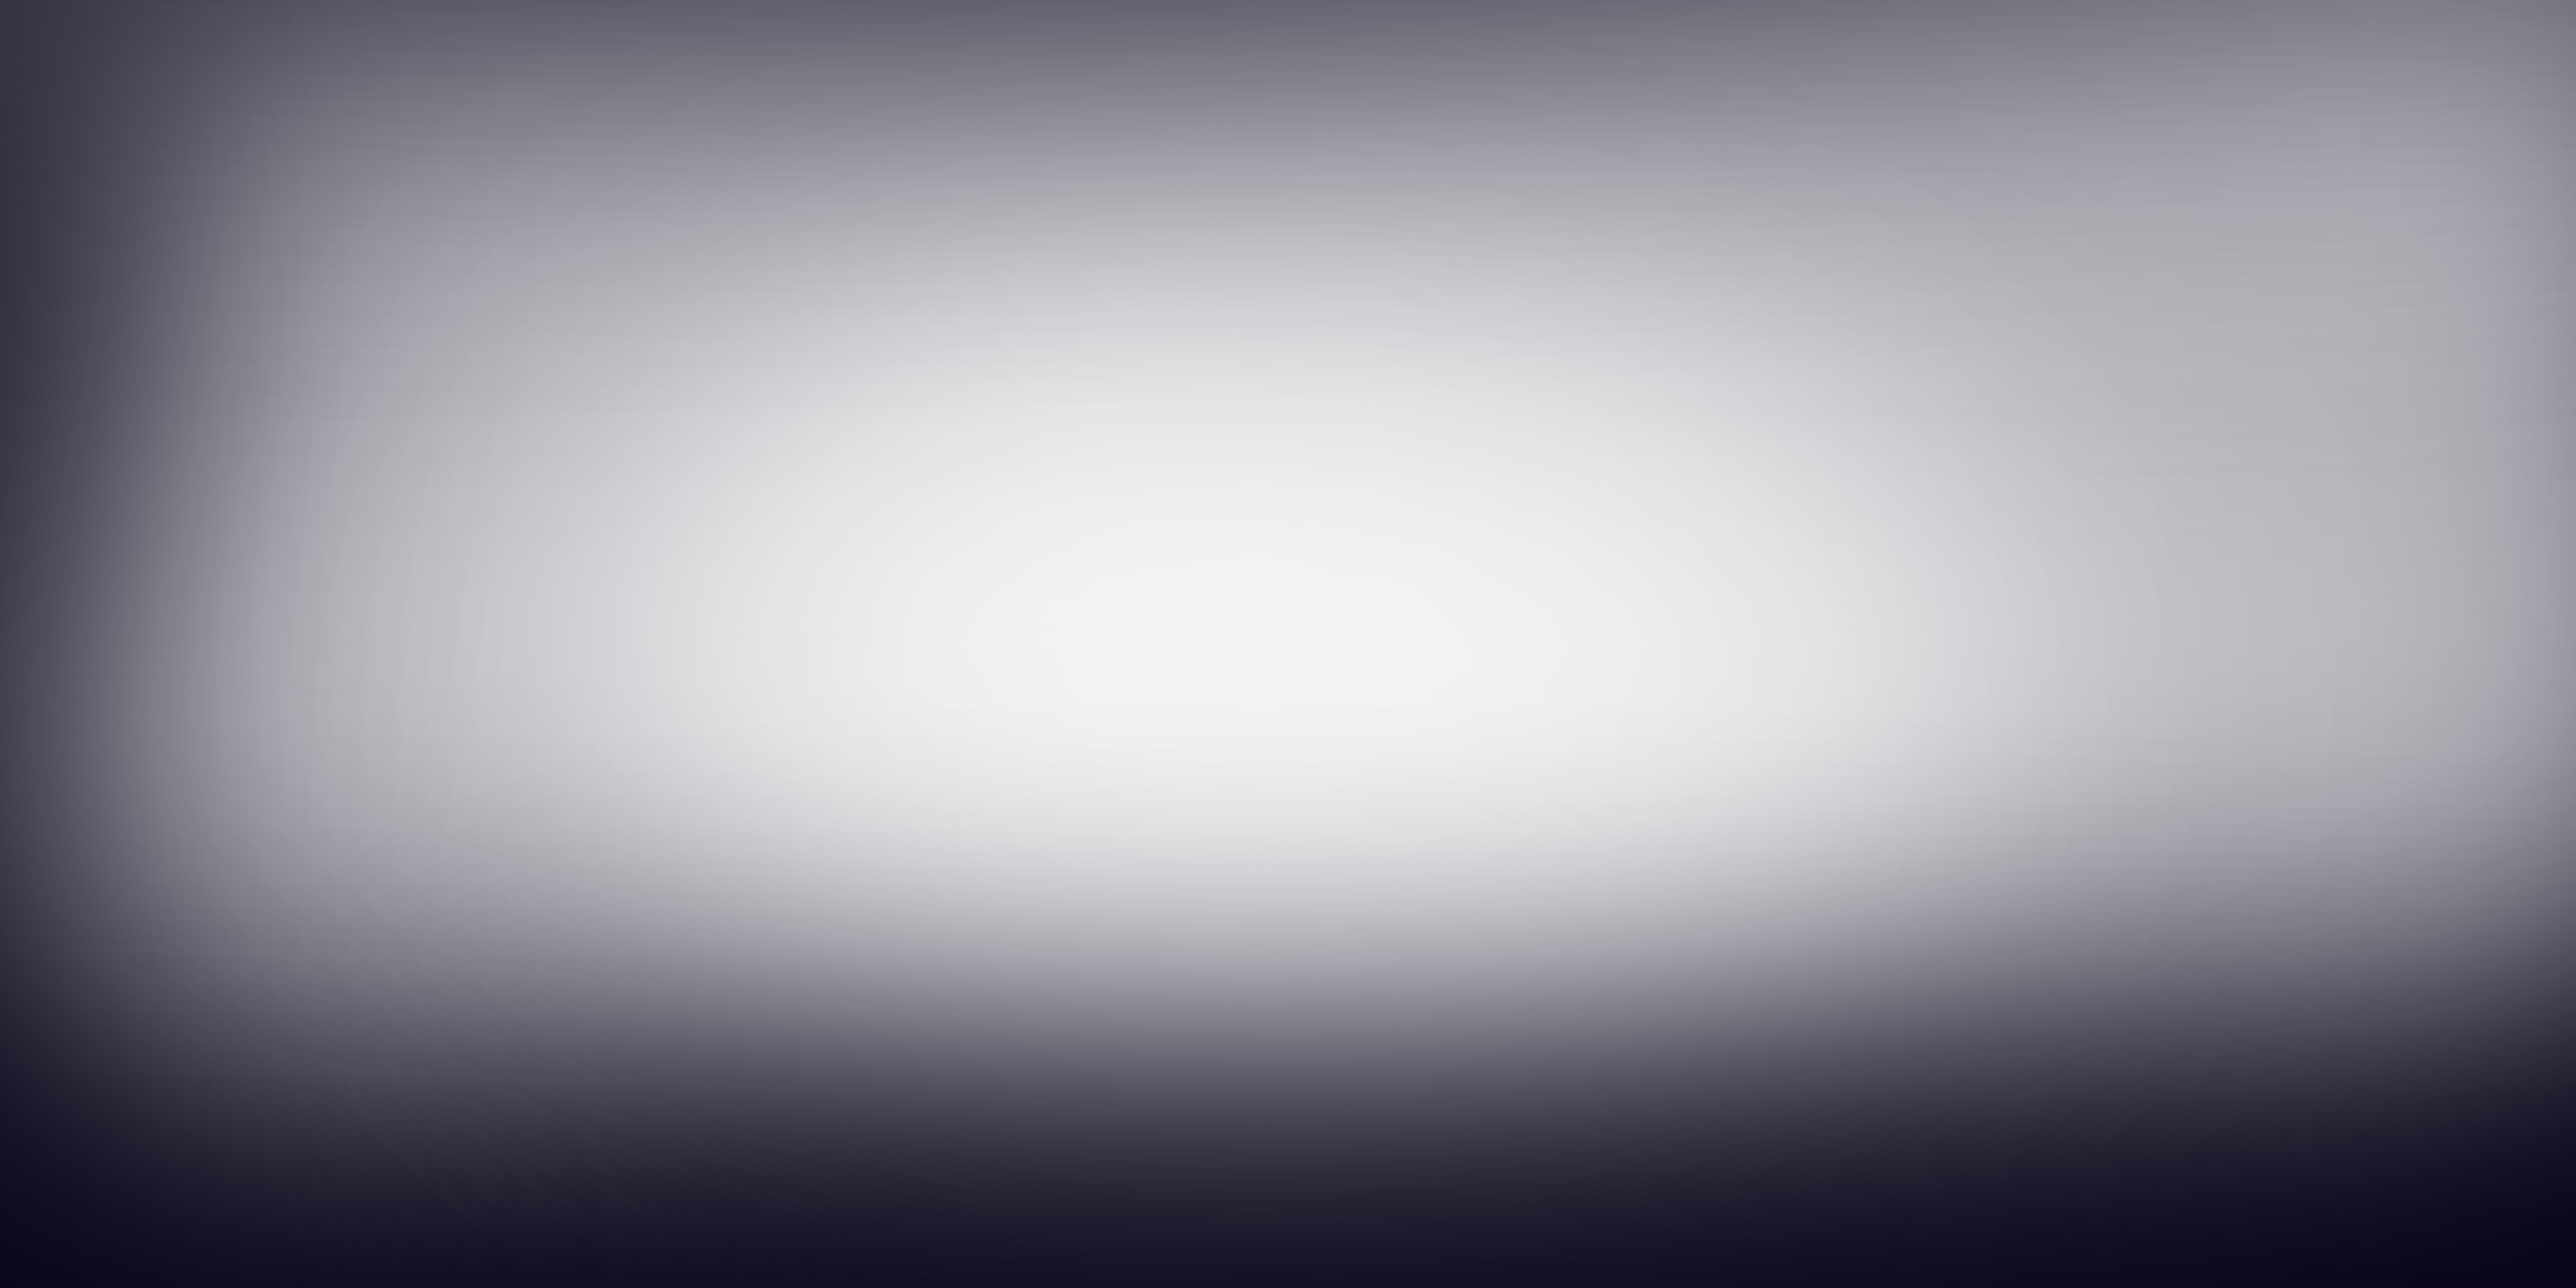
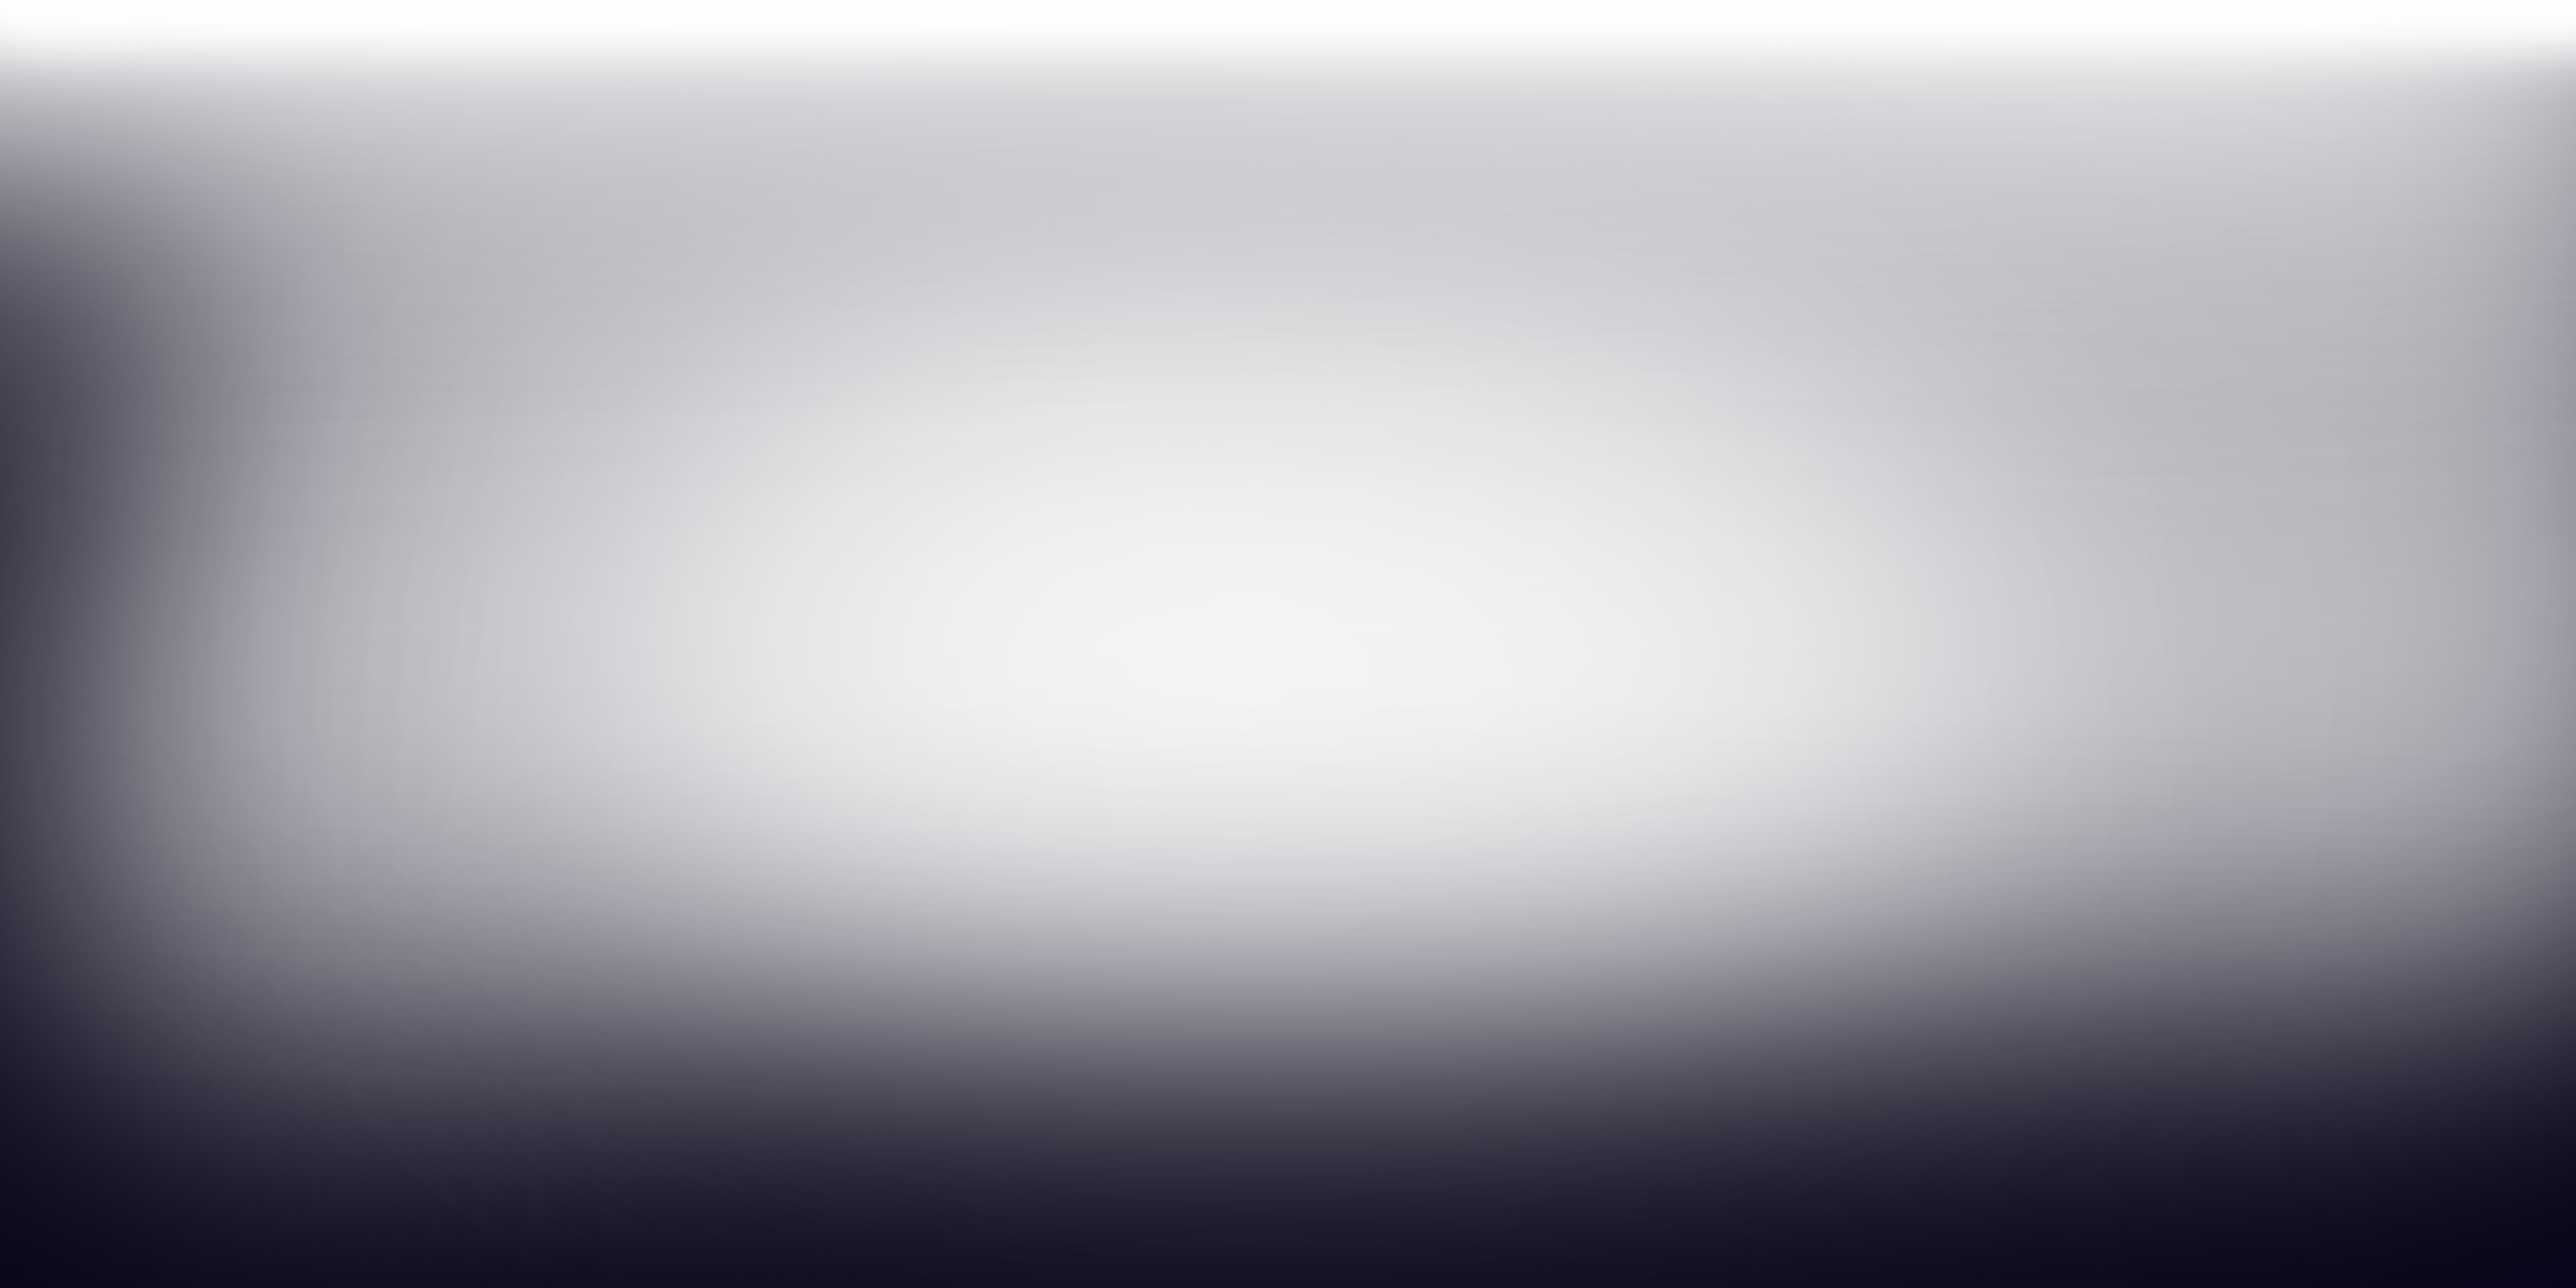
0.1.5 Final Fixes and Changelog

Changed region(s): [[0.0, 0.0, 1.0, 0.279]]

diff --git a/CHANGELOG.md b/CHANGELOG.md
@@ -5,12 +5,28 @@ All notable changes to this project will be documented in this file.
 The format is based on [Keep a Changelog](https://keepachangelog.com/en/1.1.0/),
 and this project adheres to [Semantic Versioning](https://semver.org/spec/v2.0.0.html).
 
-## [0.1.5] - 2026-05-??
+## [0.1.5] - 2026-05-06
+
+### Added
+
+- Added discord album status support
 
 ### Changed
 
 - Increased the lineart thickness of Garcello's sprites
-- Optimized character data files
+- Optimized character and stage data files
+- Centered and removed stray pixels from garcellos icon
+- Made Nene (Garcello) compatible with the rim light shader
+- Optimized the trail effects in the erect remixes
+
+### Fixed
+
+- Fixed a bug that would crash the chart editor on Nerves (Any Variant)
+- Fixed the ui not being visible in charting mode in some songs
+- Fixed the camera being off centered when focused on BF in Nerves
+- Fixed an extra note being present in Nerves Erect
+- Fixed the lighting cutoff being visible at the start of Headache
+- Fixed Garcello not missing the note on the Hard Cough animation
 
 ## [0.1.4] - 2026-05-03
 
